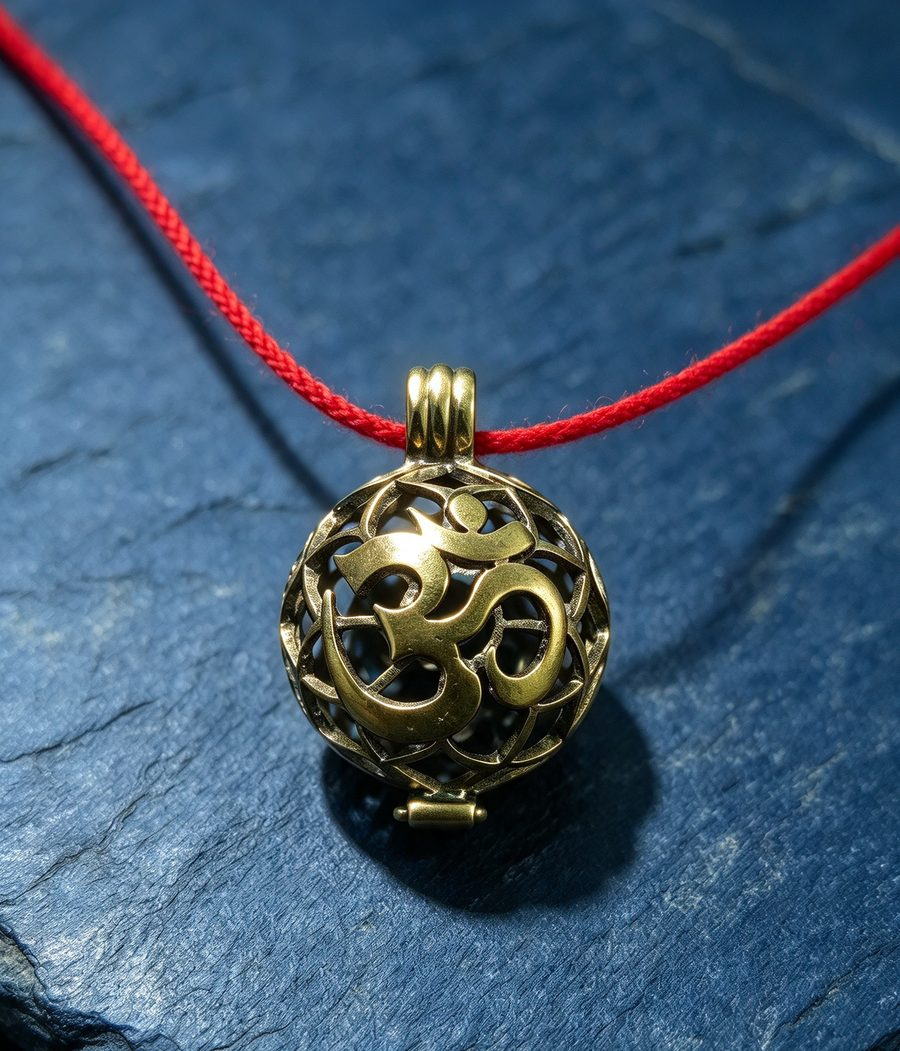
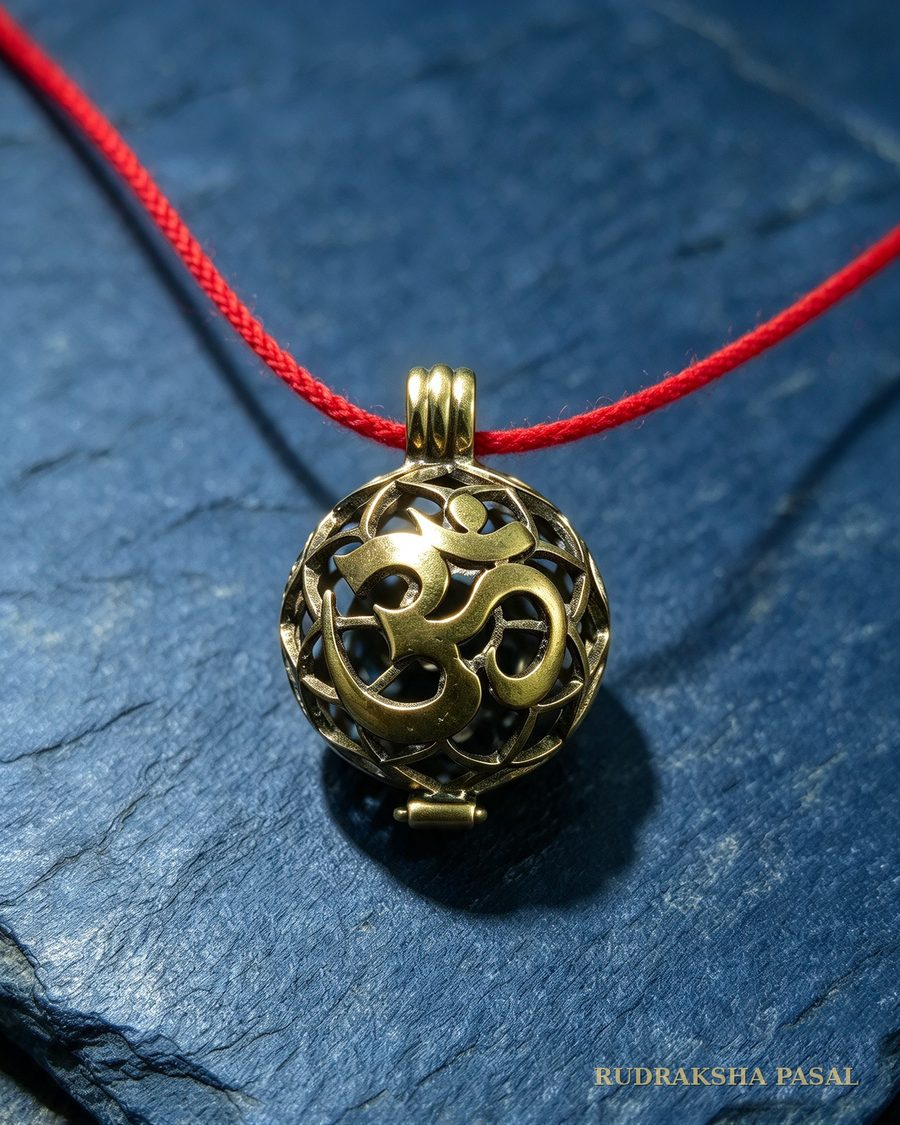
Locket photos: remove AI watermark, add Rudraksha Pasal mark; locket only for energized beads (activated are 20mm+)
Claude-Session: https://claude.ai/code/session_01FL2h89aXXk312Y3KGAUX9X

diff --git a/faq.html b/faq.html
@@ -17,7 +17,7 @@
 <link rel="preconnect" href="https://fonts.gstatic.com" crossorigin>
 <link href="https://fonts.googleapis.com/css2?family=Rozha+One&family=Figtree:wght@300;400;500;600&display=swap" rel="stylesheet">
 <link rel="stylesheet" href="styles.css">
-<script type="application/ld+json">{"@context": "https://schema.org", "@type": "FAQPage", "mainEntity": [{"@type": "Question", "name": "How do I order?", "acceptedAnswer": {"@type": "Answer", "text": "Choose your bead on the Shop page and press Order. It opens WhatsApp with your choice already written. We confirm availability, and you confirm payment and delivery details with us before anything is sent."}}, {"@type": "Question", "name": "Do you ship outside Nepal?", "acceptedAnswer": {"@type": "Answer", "text": "Yes. Delivery within Nepal is free. For India and the rest of the world, message us your country and we confirm the shipping cost before you commit to anything."}}, {"@type": "Question", "name": "Which bead is right for me?", "acceptedAnswer": {"@type": "Answer", "text": "Message us your questions or birth details and we will talk it through. The Sacred Beads page also explains what each mukhi is traditionally associated with."}}, {"@type": "Question", "name": "What is the difference between energized and activated?", "acceptedAnswer": {"@type": "Answer", "text": "An energized bead is a genuine Nepal-sourced Rudraksha that has been energized and is ready to wear, from NRS 1,500. An activated bead goes through our Guru's full 54-day Vedic and Tantric consecration with 2 lakh chants and havan. It costs more because of the Guru's time, years of practice and dakshina."}}, {"@type": "Question", "name": "What is the locket option?", "acceptedAnswer": {"@type": "Answer", "text": "Your bead comes set in a Panchadhatu Om locket pendant that opens to hold it, so it is ready to wear. An energized bead in the locket is NRS 2,500."}}, {"@type": "Question", "name": "What is Gaurishankar Rudraksha?", "acceptedAnswer": {"@type": "Answer", "text": "Two beads joined naturally, traditionally seen as the union of Shiva (Shankar) and Parvati (Gauri). It is rare, so it is priced by size, from NRS 18,000."}}, {"@type": "Question", "name": "How do I know the bead is genuine?", "acceptedAnswer": {"@type": "Answer", "text": "Activated and Gaurishankar beads come with a certificate matched to photographs of that exact bead. For any bead you can ask us for close-up photos or a video first. See the Authenticity page for how to inspect a bead yourself."}}, {"@type": "Question", "name": "Do you provide X-ray reports?", "acceptedAnswer": {"@type": "Answer", "text": "X-ray reports are available for rare or high-value beads, such as large Gaurishankar, and on request. Ask us on WhatsApp."}}, {"@type": "Question", "name": "How do I wear it?", "acceptedAnswer": {"@type": "Answer", "text": "Traditionally the first wearing is on a Monday morning at sunrise, after a gentle cleansing, with the beeja mantra chanted 7 or 108 times. See the Sacred Beads page for the full steps."}}, {"@type": "Question", "name": "How do I care for the bead?", "acceptedAnswer": {"@type": "Answer", "text": "Keep it away from harsh chemicals, perfume and soaking in water for long periods. Wipe it with a soft dry cloth, and a little natural oil now and then keeps the surface supple."}}]}</script>
+<script type="application/ld+json">{"@context": "https://schema.org", "@type": "FAQPage", "mainEntity": [{"@type": "Question", "name": "How do I order?", "acceptedAnswer": {"@type": "Answer", "text": "Choose your bead on the Shop page and press Order. It opens WhatsApp with your choice already written. We confirm availability, and you confirm payment and delivery details with us before anything is sent."}}, {"@type": "Question", "name": "Do you ship outside Nepal?", "acceptedAnswer": {"@type": "Answer", "text": "Yes. Delivery within Nepal is free. For India and the rest of the world, message us your country and we confirm the shipping cost before you commit to anything."}}, {"@type": "Question", "name": "Which bead is right for me?", "acceptedAnswer": {"@type": "Answer", "text": "Message us your questions or birth details and we will talk it through. The Sacred Beads page also explains what each mukhi is traditionally associated with."}}, {"@type": "Question", "name": "What is the difference between energized and activated?", "acceptedAnswer": {"@type": "Answer", "text": "An energized bead is a genuine Nepal-sourced Rudraksha that has been energized and is ready to wear, from NRS 1,500. An activated bead goes through our Guru's full 54-day Vedic and Tantric consecration with 2 lakh chants and havan. It costs more because of the Guru's time, years of practice and dakshina."}}, {"@type": "Question", "name": "What is the locket option?", "acceptedAnswer": {"@type": "Answer", "text": "Your bead comes set in a Panchadhatu Om locket pendant that opens to hold it, so it is ready to wear. An energized bead in the locket is NRS 2,500. The locket is only for energized beads: activated beads are 20 mm+ and too large to fit."}}, {"@type": "Question", "name": "What is Gaurishankar Rudraksha?", "acceptedAnswer": {"@type": "Answer", "text": "Two beads joined naturally, traditionally seen as the union of Shiva (Shankar) and Parvati (Gauri). It is rare, so it is priced by size, from NRS 18,000."}}, {"@type": "Question", "name": "How do I know the bead is genuine?", "acceptedAnswer": {"@type": "Answer", "text": "Activated and Gaurishankar beads come with a certificate matched to photographs of that exact bead. For any bead you can ask us for close-up photos or a video first. See the Authenticity page for how to inspect a bead yourself."}}, {"@type": "Question", "name": "Do you provide X-ray reports?", "acceptedAnswer": {"@type": "Answer", "text": "X-ray reports are available for rare or high-value beads, such as large Gaurishankar, and on request. Ask us on WhatsApp."}}, {"@type": "Question", "name": "How do I wear it?", "acceptedAnswer": {"@type": "Answer", "text": "Traditionally the first wearing is on a Monday morning at sunrise, after a gentle cleansing, with the beeja mantra chanted 7 or 108 times. See the Sacred Beads page for the full steps."}}, {"@type": "Question", "name": "How do I care for the bead?", "acceptedAnswer": {"@type": "Answer", "text": "Keep it away from harsh chemicals, perfume and soaking in water for long periods. Wipe it with a soft dry cloth, and a little natural oil now and then keeps the surface supple."}}]}</script>
 </head>
 <body>
 <div class="ember-field"></div>
@@ -45,7 +45,7 @@
   <h1>Frequently <em>asked</em></h1>
   <p class="lead">Short answers to the things people ask us most. If yours is missing, message us.</p>
 </div></header>
-<section style="padding-top:1rem"><div class="wrap"><div class="faq"><h3>Ordering &amp; delivery</h3><details><summary>How do I order?</summary><p>Choose your bead on the Shop page and press Order. It opens WhatsApp with your choice already written. We confirm availability, and you confirm payment and delivery details with us before anything is sent.</p></details><details><summary>Do you ship outside Nepal?</summary><p>Yes. Delivery within Nepal is free. For India and the rest of the world, message us your country and we confirm the shipping cost before you commit to anything.</p></details><details><summary>Which bead is right for me?</summary><p>Message us your questions or birth details and we will talk it through. The Sacred Beads page also explains what each mukhi is traditionally associated with.</p></details><h3>Energized vs activated</h3><details><summary>What is the difference between energized and activated?</summary><p>An energized bead is a genuine Nepal-sourced Rudraksha that has been energized and is ready to wear, from NRS 1,500. An activated bead goes through our Guru's full 54-day Vedic and Tantric consecration with 2 lakh chants and havan. It costs more because of the Guru's time, years of practice and dakshina.</p></details><details><summary>What is the locket option?</summary><p>Your bead comes set in a Panchadhatu Om locket pendant that opens to hold it, so it is ready to wear. An energized bead in the locket is NRS 2,500.</p></details><details><summary>What is Gaurishankar Rudraksha?</summary><p>Two beads joined naturally, traditionally seen as the union of Shiva (Shankar) and Parvati (Gauri). It is rare, so it is priced by size, from NRS 18,000.</p></details><h3>Authenticity</h3><details><summary>How do I know the bead is genuine?</summary><p>Activated and Gaurishankar beads come with a certificate matched to photographs of that exact bead. For any bead you can ask us for close-up photos or a video first. See the Authenticity page for how to inspect a bead yourself.</p></details><details><summary>Do you provide X-ray reports?</summary><p>X-ray reports are available for rare or high-value beads, such as large Gaurishankar, and on request. Ask us on WhatsApp.</p></details><h3>Wearing &amp; care</h3><details><summary>How do I wear it?</summary><p>Traditionally the first wearing is on a Monday morning at sunrise, after a gentle cleansing, with the beeja mantra chanted 7 or 108 times. See the Sacred Beads page for the full steps.</p></details><details><summary>How do I care for the bead?</summary><p>Keep it away from harsh chemicals, perfume and soaking in water for long periods. Wipe it with a soft dry cloth, and a little natural oil now and then keeps the surface supple.</p></details></div>
+<section style="padding-top:1rem"><div class="wrap"><div class="faq"><h3>Ordering &amp; delivery</h3><details><summary>How do I order?</summary><p>Choose your bead on the Shop page and press Order. It opens WhatsApp with your choice already written. We confirm availability, and you confirm payment and delivery details with us before anything is sent.</p></details><details><summary>Do you ship outside Nepal?</summary><p>Yes. Delivery within Nepal is free. For India and the rest of the world, message us your country and we confirm the shipping cost before you commit to anything.</p></details><details><summary>Which bead is right for me?</summary><p>Message us your questions or birth details and we will talk it through. The Sacred Beads page also explains what each mukhi is traditionally associated with.</p></details><h3>Energized vs activated</h3><details><summary>What is the difference between energized and activated?</summary><p>An energized bead is a genuine Nepal-sourced Rudraksha that has been energized and is ready to wear, from NRS 1,500. An activated bead goes through our Guru's full 54-day Vedic and Tantric consecration with 2 lakh chants and havan. It costs more because of the Guru's time, years of practice and dakshina.</p></details><details><summary>What is the locket option?</summary><p>Your bead comes set in a Panchadhatu Om locket pendant that opens to hold it, so it is ready to wear. An energized bead in the locket is NRS 2,500. The locket is only for energized beads: activated beads are 20 mm+ and too large to fit.</p></details><details><summary>What is Gaurishankar Rudraksha?</summary><p>Two beads joined naturally, traditionally seen as the union of Shiva (Shankar) and Parvati (Gauri). It is rare, so it is priced by size, from NRS 18,000.</p></details><h3>Authenticity</h3><details><summary>How do I know the bead is genuine?</summary><p>Activated and Gaurishankar beads come with a certificate matched to photographs of that exact bead. For any bead you can ask us for close-up photos or a video first. See the Authenticity page for how to inspect a bead yourself.</p></details><details><summary>Do you provide X-ray reports?</summary><p>X-ray reports are available for rare or high-value beads, such as large Gaurishankar, and on request. Ask us on WhatsApp.</p></details><h3>Wearing &amp; care</h3><details><summary>How do I wear it?</summary><p>Traditionally the first wearing is on a Monday morning at sunrise, after a gentle cleansing, with the beeja mantra chanted 7 or 108 times. See the Sacred Beads page for the full steps.</p></details><details><summary>How do I care for the bead?</summary><p>Keep it away from harsh chemicals, perfume and soaking in water for long periods. Wipe it with a soft dry cloth, and a little natural oil now and then keeps the surface supple.</p></details></div>
   <p class="center mt3"><a class="btn btn-fire" href="https://wa.me/9779823783486?text=Namaste%2C%20I%20have%20a%20question%20about%20Rudraksha.">Ask on WhatsApp ✦</a></p>
 </div></section>
 

diff --git a/collection.html b/collection.html
@@ -104,12 +104,12 @@
 <section id="locket" class="alt">
   <div class="wrap">
     <div class="cols-2">
-      <figure class="photo"><img src="assets/img/pendant.jpg" alt="Panchadhatu Om locket pendant that opens to hold a Rudraksha bead" loading="lazy" style="aspect-ratio:1/1;object-fit:cover;object-position:50% 55%"><img src="assets/img/pendant-cord.jpg" alt="Panchadhatu Om locket on a red thread" loading="lazy" style="margin-top:1rem;aspect-ratio:1/1;object-fit:cover;object-position:50% 55%"></figure>
+      <figure class="photo"><img src="assets/img/pendant.jpg" alt="Panchadhatu Om locket pendant that opens to hold a Rudraksha bead" loading="lazy" style="aspect-ratio:1/1;object-fit:cover;object-position:50% 50%"><img src="assets/img/pendant-cord.jpg" alt="Panchadhatu Om locket on a red thread" loading="lazy" style="margin-top:1rem;aspect-ratio:1/1;object-fit:cover;object-position:50% 55%"></figure>
       <div class="prose reveal" style="margin:0 auto">
         <span class="eyebrow">The locket</span>
         <h2 class="mt1">Panchadhatu Om <em>locket pendant</em></h2>
         <p>A Panchadhatu Om locket that opens to hold your Rudraksha, so the bead sits close to you and stays protected. It makes the bead ready to wear and ready to gift.</p>
-        <p><b>Energized bead in the locket: NRS 2,500</b> (bead alone NRS 1,500). Activated beads can be set in the locket too: +NRS 3,000.</p>
+        <p><b>Energized bead in the locket: NRS 2,500</b> (bead alone NRS 1,500). The locket is made for the energized beads. Activated beads are 20 mm+ and are too large for it, so they are worn on a cord or mala.</p>
       </div>
     </div>
   </div>
@@ -121,7 +121,7 @@
     <h2 class="reveal">Activated <em>Rudraksha</em></h2>
     <p class="lead reveal mt1">The complete 54-day Vedic &amp; Tantric consecration: 2 lakh chants, havan and the Guru's blessing. It is priced higher because each bead takes the Guru's time and years of practice, and his dakshina is included.</p></div>
     <div class="beads">
-      <article class="bead-card premium reveal" data-tilt data-bead data-base="10000" data-add="3000" data-name="3 Mukhi" data-tier="Activated" data-sub-plain="Consecrated · Guru's dakshina included" data-sub-locket="Consecrated bead in Panchadhatu locket">
+      <article class="bead-card premium reveal" data-tilt data-bead data-base="10000" data-add="0" data-name="3 Mukhi" data-tier="Activated" data-sub-plain="Consecrated · Guru's dakshina included" data-sub-locket="">
         <figure class="card-photo"><img src="assets/img/bead-3mukhi.jpg" alt="3 Mukhi Rudraksha bead" loading="lazy"></figure>
         <span class="devnum">३</span>
         <div class="sub">3 Mukhi · Trimurti · Mars</div>
@@ -129,7 +129,7 @@
         <p class="desc">Brahma, Vishnu and Mahesh in one seed. In tradition, Agni's fire within the three faces is said to burn accumulated karma — the unseen weight that blocks progress despite sincere effort.</p>
         <div class="chips"><span class="chip">Deity · Trimurti</span><span class="chip">Planet · Mangal</span><span class="chip">Element · Fire</span></div>
         <ul class="fitlist"><li>Feel stuck despite sincere effort</li><li>Carry guilt, grief or past karma</li><li>Have Mangal dosh or a weak Mars in the chart</li></ul>
-        <label class="addon"><input type="checkbox" data-pendant> With Panchadhatu Om locket (+NRS 3,000)</label>
+        <p class="addon" style="opacity:.75;font-size:.82rem">Activated beads are 20 mm+ and are worn on a cord or mala, not in the locket.</p>
         <div class="price-row">
           <div class="price"><span data-price>NRS 10,000</span><small data-pricesub>Consecrated · Guru's dakshina included</small></div>
           <a class="btn btn-fire" data-order href="https://wa.me/9779823783486?text=Namaste%2C%20I%20would%20like%20to%20order%20the%203%20Mukhi%20Rudraksha%20%E2%80%94%20Activated.">Order ✦</a>
@@ -139,7 +139,7 @@
           <p>A devotee prayed a thousand years asking which of the three gods was supreme. On the final day, all three appeared at once — and wept together, for they had never been asked to stand as one. Where their three tears fell upon the same earth, a Rudraksha tree grew, and every bead upon it bore three faces.</p>
         </details>
       </article>
-      <article class="bead-card premium reveal" data-tilt data-bead data-base="10000" data-add="3000" data-name="6 Mukhi" data-tier="Activated" data-sub-plain="Consecrated · Guru's dakshina included" data-sub-locket="Consecrated bead in Panchadhatu locket">
+      <article class="bead-card premium reveal" data-tilt data-bead data-base="10000" data-add="0" data-name="6 Mukhi" data-tier="Activated" data-sub-plain="Consecrated · Guru's dakshina included" data-sub-locket="">
         <figure class="card-photo"><img src="https://commons.wikimedia.org/wiki/Special:FilePath/Rudraksha_sixfaces_by_sankar.jpg?width=800" alt="Six mukhi Rudraksha bead" loading="lazy"></figure>
         <span class="devnum">६</span>
         <div class="sub">6 Mukhi · Kartikeya · Venus</div>
@@ -147,7 +147,7 @@
         <p class="desc">Ruled by Kartikeya, the six-faced commander of the divine armies. Traditionally worn to build willpower, focus and confidence, with Shukra's grace associated with charm and harmony.</p>
         <div class="chips"><span class="chip">Deity · Kartikeya</span><span class="chip">Planet · Shukra</span><span class="chip">Element · Earth</span></div>
         <ul class="fitlist"><li>Seek focus and discipline in studies or career</li><li>Face competition or scattered willpower</li><li>Have Shukra afflictions or seek confidence</li></ul>
-        <label class="addon"><input type="checkbox" data-pendant> With Panchadhatu Om locket (+NRS 3,000)</label>
+        <p class="addon" style="opacity:.75;font-size:.82rem">Activated beads are 20 mm+ and are worn on a cord or mala, not in the locket.</p>
         <div class="price-row">
           <div class="price"><span data-price>NRS 10,000</span><small data-pricesub>Consecrated · Guru's dakshina included</small></div>
           <a class="btn btn-fire" data-order href="https://wa.me/9779823783486?text=Namaste%2C%20I%20would%20like%20to%20order%20the%206%20Mukhi%20Rudraksha%20%E2%80%94%20Activated.">Order ✦</a>
@@ -157,7 +157,7 @@
           <p>When Shiva's radiance fell into the reeds, six sparks became six infants, each cradled by one of the Krittika mothers. Parvati gathered them in one embrace — and they became a single child with six faces: Shanmukha, who would command the armies of the gods.</p>
         </details>
       </article>
-      <article class="bead-card premium reveal" data-tilt data-bead data-base="10000" data-add="3000" data-name="7 Mukhi" data-tier="Activated" data-sub-plain="Consecrated · Guru's dakshina included" data-sub-locket="Consecrated bead in Panchadhatu locket">
+      <article class="bead-card premium reveal" data-tilt data-bead data-base="10000" data-add="0" data-name="7 Mukhi" data-tier="Activated" data-sub-plain="Consecrated · Guru's dakshina included" data-sub-locket="">
         <figure class="card-photo"><img src="assets/img/bead-closeup.jpg" alt="Close-up of a Rudraksha bead showing its natural mukhi furrows" width="900" height="409" loading="lazy"></figure>
         <span class="devnum">७</span>
         <div class="sub">7 Mukhi · Mahalakshmi · Saturn</div>
@@ -165,7 +165,7 @@
         <p class="desc">Ruled by Maa Mahalakshmi and governed by Shani. Seven faces are linked to the Saptamatrikas, the seven divine mothers, and the bead is traditionally worn for abundance and steadiness through Saturn's periods.</p>
         <div class="chips"><span class="chip">Deity · Mahalakshmi</span><span class="chip">Planet · Shani</span><span class="chip">Element · Earth</span></div>
         <ul class="fitlist"><li>Face financial hardship or blocked opportunities</li><li>Are in Sade Sati or a Shani dasha</li><li>Seek Mahalakshmi's grace and abundance</li></ul>
-        <label class="addon"><input type="checkbox" data-pendant> With Panchadhatu Om locket (+NRS 3,000)</label>
+        <p class="addon" style="opacity:.75;font-size:.82rem">Activated beads are 20 mm+ and are worn on a cord or mala, not in the locket.</p>
         <div class="price-row">
           <div class="price"><span data-price>NRS 10,000</span><small data-pricesub>Consecrated · Guru's dakshina included</small></div>
           <a class="btn btn-fire" data-order href="https://wa.me/9779823783486?text=Namaste%2C%20I%20would%20like%20to%20order%20the%207%20Mukhi%20Rudraksha%20%E2%80%94%20Activated.">Order ✦</a>
@@ -218,7 +218,7 @@
         <tr><td>2 lakh mantra chants + havan</td><td>No</td><td>Yes</td></tr>
         <tr><td>Certificate matched to photographs</td><td>Photos on request</td><td>Yes</td></tr>
         <tr><td>Guru's dakshina included</td><td>—</td><td>Yes</td></tr>
-        <tr><td>Bead / in Panchadhatu locket</td><td>NRS 1,500 / NRS 2,500</td><td>from NRS 10,000 / +NRS 3,000</td></tr>
+        <tr><td>Bead / in Panchadhatu locket</td><td>NRS 1,500 / NRS 2,500</td><td>from NRS 10,000 / not offered (20 mm+)</td></tr>
       </tbody></table></div>
   </div>
 </section>

diff --git a/index.html b/index.html
@@ -81,7 +81,7 @@
       <div class="pillar reveal"><span class="glyph">🏔</span><h3>Nepal Sourcing</h3><p>Beads come directly from Nepal, hand-examined for genuine mukhi formation before anything else happens.</p></div>
       <div class="pillar reveal"><span class="glyph">📜</span><h3>Proof for Rare Beads</h3><p>Activated and Gaurishankar beads come with a certificate matched to photographs of that exact bead. Ask for photos of any bead first.</p></div>
       <div class="pillar reveal"><span class="glyph">🔱</span><h3>Vedic &amp; Tantric Ritual</h3><p>Activated beads receive prana pratishtha, havan, 2 lakh japa and Tantric invocation from our Guru over 54 days.</p></div>
-      <div class="pillar reveal"><span class="glyph">🌺</span><h3>Your Choice</h3><p>Energized from NRS 1,500, fully activated, or set in a Panchadhatu locket. You pay for the depth you want.</p></div>
+      <div class="pillar reveal"><span class="glyph">🌺</span><h3>Your Choice</h3><p>Energized from NRS 1,500 (or in a Panchadhatu locket), or fully activated. You pay for the depth you want.</p></div>
     </div>
   </div>
 </section>

diff --git a/site.js b/site.js
@@ -35,13 +35,13 @@
     const price=card.querySelector('[data-price]'),sub=card.querySelector('[data-pricesub]'),
           btn=card.querySelector('[data-order]'),pend=card.querySelector('[data-pendant]');
     function upd(){
-      const withP=pend.checked,total=base+(withP?add:0);
+      const withP=pend&&pend.checked,total=base+(withP?add:0);
       price.textContent=fmt(total);
       sub.textContent=withP?card.dataset.subLocket:card.dataset.subPlain;
       const msg='Namaste, I would like to order the '+name+' Rudraksha — '+tier+(withP?' in a Panchadhatu Om locket':'')+' ('+fmt(total)+').';
       btn.href='https://wa.me/9779823783486?text='+encodeURIComponent(msg);
     }
-    pend.addEventListener('change',upd);
+    if(pend)pend.addEventListener('change',upd);
     upd();
   });
   /* gaurishankar size picker */

diff --git a/build.py b/build.py
@@ -7,7 +7,6 @@ import html, urllib.parse, os
 ACT = {3: 10000, 6: 10000, 7: 10000}      # activated (consecrated) - from the live site
 ENG = {3: 1500, 6: 1500, 7: 1500}          # energized bead only
 ENG_LOCKET = {3: 2500, 6: 2500, 7: 2500}   # energized bead in Panchadhatu Om locket
-ACT_PENDANT = 3000                         # activated bead + locket add-on (CONFIRM)
 GAURI = [("Standard", "NRS 18,000"), ("Above 36 mm", "NRS 35,000 – 40,000"), ("Above 40 mm", "NRS 50,000+")]
 PENDANT_IMG = "assets/img/pendant.jpg"     # drop the pendant photo here and rebuild
 BUNDLE_ACT = {"3 + 7": 18000, "3 + 6 + 7": 26000}   # activated bundles - from live site
@@ -139,7 +138,7 @@ BEADS = {
 
 def pendant_fig():
     if os.path.exists(PENDANT_IMG):
-        out = '<img src="%s" alt="Panchadhatu Om locket pendant that opens to hold a Rudraksha bead" loading="lazy" style="aspect-ratio:1/1;object-fit:cover;object-position:50%% 55%%">' % PENDANT_IMG
+        out = '<img src="%s" alt="Panchadhatu Om locket pendant that opens to hold a Rudraksha bead" loading="lazy" style="aspect-ratio:1/1;object-fit:cover;object-position:50%% 50%%">' % PENDANT_IMG
         if os.path.exists("assets/img/pendant-cord.jpg"):
             out += '<img src="assets/img/pendant-cord.jpg" alt="Panchadhatu Om locket on a red thread" loading="lazy" style="margin-top:1rem;aspect-ratio:1/1;object-fit:cover;object-position:50% 55%">'
         return '<figure class="photo">%s</figure>' % out
@@ -163,12 +162,12 @@ def bead_card(k, kind="act", featured=False):
             base, add, tier, cls = ENG[k], ENG_LOCKET[k] - ENG[k], "Energized", "bead-card eng"
             plain, locket = "Energized bead only", "Energized bead in Panchadhatu locket"
         else:
-            base, add, tier, cls = ACT[k], ACT_PENDANT, "Activated", "bead-card premium"
-            plain, locket = "Consecrated · Guru's dakshina included", "Consecrated bead in Panchadhatu locket"
+            base, add, tier, cls = ACT[k], 0, "Activated", "bead-card premium"
+            plain, locket = "Consecrated · Guru's dakshina included", ""
         attrs = (f' data-bead data-base="{base}" data-add="{add}" data-name="{b["name"]}" data-tier="{tier}"'
                  f' data-sub-plain="{plain}" data-sub-locket="{locket}"')
         ctl = f"""
-        <label class="addon"><input type="checkbox" data-pendant> With Panchadhatu Om locket (+{nrs(add)})</label>
+        {('<label class="addon"><input type="checkbox" data-pendant> With Panchadhatu Om locket (+%s)</label>' % nrs(add)) if add else '<p class="addon" style="opacity:.75;font-size:.82rem">Activated beads are 20 mm+ and are worn on a cord or mala, not in the locket.</p>'}
         <div class="price-row">
           <div class="price"><span data-price>{nrs(base)}</span><small data-pricesub>{plain}</small></div>
           <a class="btn btn-fire" data-order href="{wa('Namaste, I would like to order the %s Rudraksha — %s.' % (b['name'], tier))}">Order ✦</a>
@@ -249,7 +248,7 @@ FAQ_ITEMS = [
     ]),
     ("Energized vs activated", [
         ("What is the difference between energized and activated?", f"An energized bead is a genuine Nepal-sourced Rudraksha that has been energized and is ready to wear, from {nrs(min(ENG.values()))}. An activated bead goes through our Guru's full 54-day Vedic and Tantric consecration with 2 lakh chants and havan. It costs more because of the Guru's time, years of practice and dakshina."),
-        ("What is the locket option?", f"Your bead comes set in a Panchadhatu Om locket pendant that opens to hold it, so it is ready to wear. An energized bead in the locket is {nrs(min(ENG_LOCKET.values()))}."),
+        ("What is the locket option?", f"Your bead comes set in a Panchadhatu Om locket pendant that opens to hold it, so it is ready to wear. An energized bead in the locket is {nrs(min(ENG_LOCKET.values()))}. The locket is only for energized beads: activated beads are 20 mm+ and too large to fit."),
         ("What is Gaurishankar Rudraksha?", "Two beads joined naturally, traditionally seen as the union of Shiva (Shankar) and Parvati (Gauri). It is rare, so it is priced by size, from NRS 18,000."),
     ]),
     ("Authenticity", [
@@ -367,7 +366,7 @@ home += f"""
       <div class="pillar reveal"><span class="glyph">🏔</span><h3>Nepal Sourcing</h3><p>Beads come directly from Nepal, hand-examined for genuine mukhi formation before anything else happens.</p></div>
       <div class="pillar reveal"><span class="glyph">📜</span><h3>Proof for Rare Beads</h3><p>Activated and Gaurishankar beads come with a certificate matched to photographs of that exact bead. Ask for photos of any bead first.</p></div>
       <div class="pillar reveal"><span class="glyph">🔱</span><h3>Vedic &amp; Tantric Ritual</h3><p>Activated beads receive prana pratishtha, havan, 2 lakh japa and Tantric invocation from our Guru over 54 days.</p></div>
-      <div class="pillar reveal"><span class="glyph">🌺</span><h3>Your Choice</h3><p>Energized from NRS 1,500, fully activated, or set in a Panchadhatu locket. You pay for the depth you want.</p></div>
+      <div class="pillar reveal"><span class="glyph">🌺</span><h3>Your Choice</h3><p>Energized from NRS 1,500 (or in a Panchadhatu locket), or fully activated. You pay for the depth you want.</p></div>
     </div>
   </div>
 </section>
@@ -476,7 +475,7 @@ shop += f"""
         <span class="eyebrow">The locket</span>
         <h2 class="mt1">Panchadhatu Om <em>locket pendant</em></h2>
         <p>A Panchadhatu Om locket that opens to hold your Rudraksha, so the bead sits close to you and stays protected. It makes the bead ready to wear and ready to gift.</p>
-        <p><b>Energized bead in the locket: {nrs(min(ENG_LOCKET.values()))}</b> (bead alone {nrs(min(ENG.values()))}). Activated beads can be set in the locket too: +{nrs(ACT_PENDANT)}.</p>
+        <p><b>Energized bead in the locket: {nrs(min(ENG_LOCKET.values()))}</b> (bead alone {nrs(min(ENG.values()))}). The locket is made for the energized beads. Activated beads are 20 mm+ and are too large for it, so they are worn on a cord or mala.</p>
       </div>
     </div>
   </div>
@@ -525,7 +524,7 @@ shop += f"""
         <tr><td>2 lakh mantra chants + havan</td><td>No</td><td>Yes</td></tr>
         <tr><td>Certificate matched to photographs</td><td>Photos on request</td><td>Yes</td></tr>
         <tr><td>Guru's dakshina included</td><td>—</td><td>Yes</td></tr>
-        <tr><td>Bead / in Panchadhatu locket</td><td>{nrs(min(ENG.values()))} / {nrs(min(ENG_LOCKET.values()))}</td><td>from {nrs(min(ACT.values()))} / +{nrs(ACT_PENDANT)}</td></tr>
+        <tr><td>Bead / in Panchadhatu locket</td><td>{nrs(min(ENG.values()))} / {nrs(min(ENG_LOCKET.values()))}</td><td>from {nrs(min(ACT.values()))} / not offered (20 mm+)</td></tr>
       </tbody></table></div>
   </div>
 </section>
